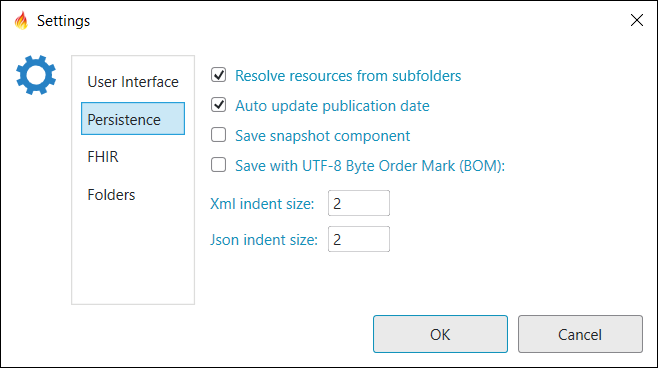
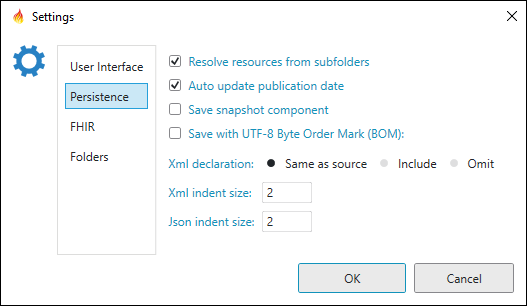
Updated release notes and added section for Xml declaration option in settings dialog.

diff --git a/features/ForgeOptions.rst b/features/ForgeOptions.rst
@@ -135,7 +135,7 @@ Persistence
 -  **Resolve resources from subfolders**
 
    Indicates the default setting for whether or not subfolders should be included when searching for resources in your project folder.
-   You can always change the setting in the **Open FHIR Projet Folder** dialog.
+   You can always change the setting in the **Open FHIR Project Folder** dialog.
 
  .. image:: ../images/Settings_IncludeSubfolders.png
     :scale: 80%
@@ -152,6 +152,17 @@ Persistence
 -  **Save with UTF-8 Byte Order Mark (BOM)**
 
    The UTF-8 BOM is a sequence of bytes at the start of a text file (0xEF, 0xBB, 0xBF) that allows the reader to more reliably guess a file as being encoded in UTF-8.
+
+-  **Xml declaration**
+
+   Xml documents can contain an Xml declaration that if present, must be the first construct in the document and it looks like this: ``<?xml version="1.0" encoding="utf-8"?>``.
+   Forge has three options that allow you to specify when Xml declarations are saved to a resource:
+
+   - Same as source
+   - Include
+   - Omit
+
+   Note that when saving resources that are newly created, duplicated or upgraded, the Xml declaration is included when the option is set to **Same as source** or **Include** and omitted when set to **Omit**.
 
 -  **Xml indent size**
 

diff --git a/ReleaseNotes.rst b/ReleaseNotes.rst
@@ -11,14 +11,19 @@ Release 31.0
 ------------
 Changes
 ^^^^^^^
-* Upgrade to Firely .NET SDK 5.2.0.
-* Upgrade to .NET 7.
+* Upgraded to Firely .NET SDK 5.2.0.
+* Upgraded to .NET 7.
 * R5 officially supported by Forge.
-* Resource tree view rendering is now consistent with Simplifier with two rendering options.
+* Resource tree view rendering is now consistent with Simplifier with two rendering options:
 
+  - Unmodified elements in the tree are displayed dimmed (default). 
   - Modified elements in the tree are indicated with a pen icon.
-  - Unmodified elements in the tree are displayed dimmed. 
-* When adding an extension to an element the cardinality of the extension is now used by default.
+* When adding an extension to an element the cardinality of the extension is now applied by default.
+* Added option for saving **Xml Declaration** header in xml files to the settings dialog:
+
+  - Same as source
+  - Include
+  - Omit
 * Various other UI styling improvements.
 
 Bug fixes
